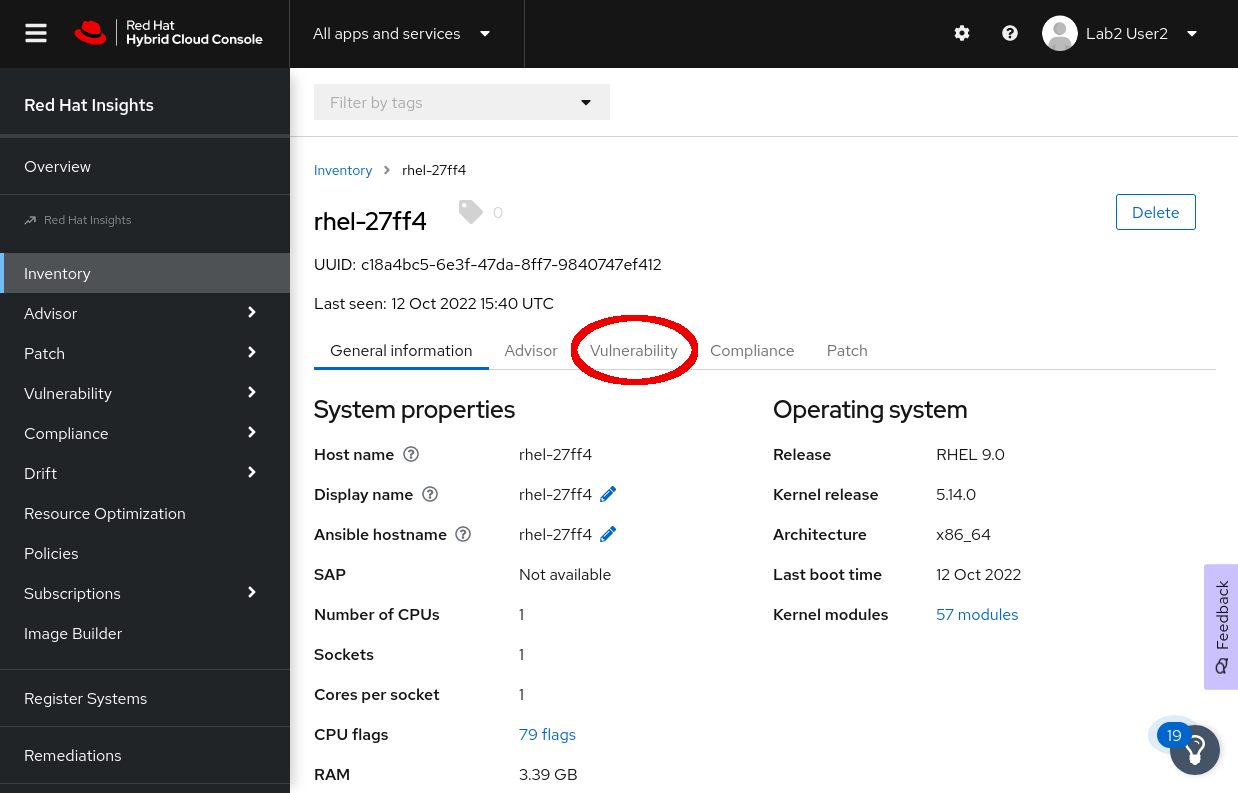
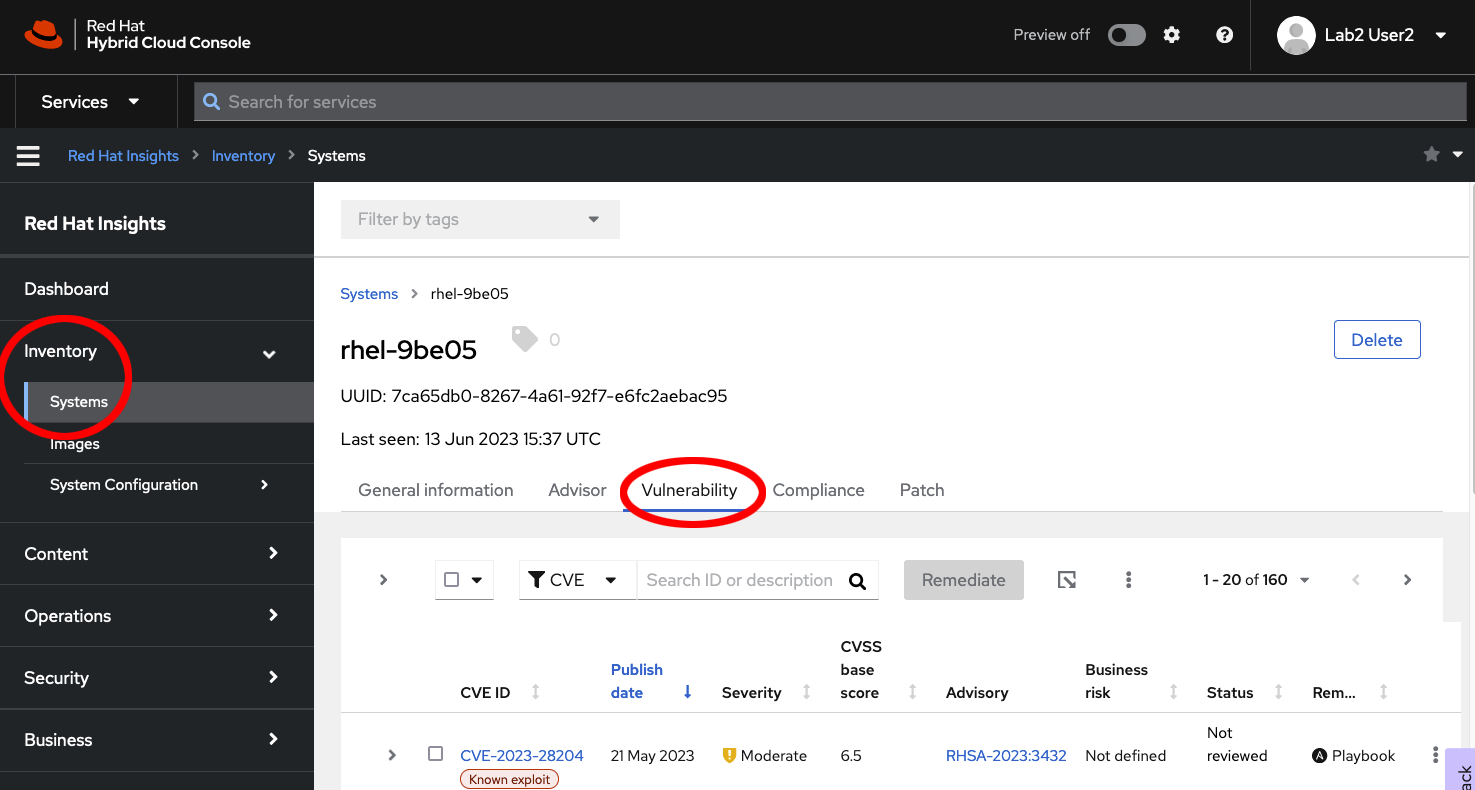
several changes accomodating insights new UI, and a bug.

diff --git a/insights-vulnerability/02-login-to-insights/assignment.md b/insights-vulnerability/02-login-to-insights/assignment.md
@@ -9,7 +9,7 @@ tabs:
   hostname: rhel
 - title: Red Hat Hybrid Cloud Console
   type: external
-  url: https://cloud.redhat.com
+  url: https://console.redhat.com
 difficulty: basic
 timelimit: 1
 ---
@@ -18,13 +18,7 @@ timelimit: 1
 
 There is a tab open inside of the lab environment for the Red Hat Hybrid Cloud Console, click on that, and you will be brought to the login page.
 
->_NOTE:_ This will open an additional browser window or tab.
-
-Click the _Log In to the console_ button.
-
-![cloud.redhat.com Login](../assets/cloud-console-homepage.png)
-
->_NOTE:_ If your browser already has a session for the Hybrid Cloud Console, you may need to open a new private window or tab in order to complete the following tasks
+>_NOTE:_ This will open an additional browser window or tab. Also note: If your browser already has a session for the Hybrid Cloud Console, you may need to open a new private window or tab in order to complete the following tasks
 
 Login using the credentials below:
 
@@ -44,7 +38,7 @@ Redhat1!
 
 ![Red Hat Password screen](../assets/cloud-console-login-pass.png)
 
-Once you are logged in, using the credentials provided above, navigate to
-_Red Hat Enterprise Linux_ in the left-side navigation menu, and select _Red Hat Insights_ below it.
+Once you are logged in, using the credentials provided above, use the _Services_ drop-down menu to navigate to *Services -> Security -> CVEs (Under the RHEL heading)
 
-![cloud.redhat.com Homepage](../assets/cloud-console-RHEL-menu.png)
+![Hybrid Cloud Console CVEs](../assets/cloud-console-cves-menu.png)
+

diff --git a/insights-vulnerability/04-remediate-manually/assignment.md b/insights-vulnerability/04-remediate-manually/assignment.md
@@ -9,11 +9,11 @@ tabs:
   hostname: rhel
 - title: Red Hat Hybrid Cloud Console
   type: external
-  url: https://cloud.redhat.com
+  url: https://console.redhat.com
 difficulty: basic
 timelimit: 1
 ---
-After providing the report generated in the previous step to your auditors, they have asked you to find, and fix any vulnerability classified as Important or Critical.  For the purposes of this lab, we will perform these tasks on just our lab host.  To find CVEs on our host that match this criteria, browse to Inventory on the menu to the left, and find the host that matches the hostname you recorded in Step 1. Click on it, and then select the Vulnerabilty heading within the host information pane.
+After providing the report generated in the previous step to your auditors, they have asked you to find, and fix any vulnerability classified as Important or Critical.  For the purposes of this lab, we will perform these tasks on just our lab host.  To find CVEs on our host that match this criteria, browse to *Inventory -> Systems* on the menu to the left, and find the host that matches the hostname you recorded in Step 1. Click on it, and then select the Vulnerabilty heading within the host information pane.
 
 ![Host Vulnerability](../assets/cloud-console-RHEL-host-vuln.png)
 

diff --git a/insights-vulnerability/03-vulnerability-reports/assignment.md b/insights-vulnerability/03-vulnerability-reports/assignment.md
@@ -9,16 +9,15 @@ tabs:
   hostname: rhel
 - title: Red Hat Hybrid Cloud Console
   type: external
-  url: https://cloud.redhat.com
+  url: https://console.redhat.com
 difficulty: basic
 timelimit: 1
 ---
-Now that you have opened Red Hat Insights for Red Hat Enterprise Linux, you
-will see a summary dashboard of all systems registered to your organization.
+Now that you have opened Red Hat Insights Vulnerability, you will see a summary dashboard of CVEs impacting all of the systems registered to your organization.
 
-![Insights Homepage](../assets/cloud-console-RHEL-Dashboard.png)
+![Red Hat Insights Vulnerabilty Summary](../assets/cloud-console-cves-summary.png)
 
-For this exercise we are going to generate a report that tells us where our fleet of systems sits in regards to un-remedieated vulnerabilities.  From the Insights dashboard, you should navigate to Vulnerability -> Reports on the left-hand side menu.
+For this exercise we are going to generate a report that tells us where our fleet of systems sits in regards to un-remedieated vulnerabilities.  From the CVEs list, you should navigate to Vulnerability -> Reports on the left-hand side menu.
 
 ![Navigate to Vulnerability Reports](../assets/cloud-console-RHEL-vuln-reports.png)
 

diff --git a/insights-vulnerability/01-gather-information/assignment.md b/insights-vulnerability/01-gather-information/assignment.md
@@ -7,11 +7,11 @@ notes:
 - type: text
   contents: |
     After completing this scenario, users will be able to identify vulnerabilities that
-    affect systems registered to Red Hat Insights using the Vulnerability tool. They will also
-    learn how to remdediate these vulnerabilities.
+    affect systems registered to Red Hat Insights using the Red Hat Insights Vulnerability tool. 
+    They will also learn how to remdediate these vulnerabilities.
 
     # Concepts included in this scenario:
-    * View Insights Vulnerability results that are reported for the system on cloud.redhat.com.
+    * View Red Hat Insights Vulnerability results that are reported for the system on console.redhat.com.
     * Apply a recommeded remediation for the system.
     * Validate that the remediation was successful.
 
@@ -20,7 +20,7 @@ notes:
     a report showing what CVEs may impact your fleet for auditing purposes.
 
     Systems are impacted by a new vulnerability which a remediation exists for.
-    Asministrators would like to apply specific fixes to their systems without the
+    Administrators would like to apply specific fixes to their systems without the
     need for broader system updates.
 tabs:
 - title: Terminal

diff --git a/insights-vulnerability/05-verify-remediation/assignment.md b/insights-vulnerability/05-verify-remediation/assignment.md
@@ -9,7 +9,7 @@ tabs:
   hostname: rhel
 - title: Red Hat Hybrid Cloud Console
   type: external
-  url: https://cloud.redhat.com
+  url: https://console.redhat.com
 difficulty: basic
 timelimit: 1
 ---

diff --git a/insights-vulnerability/06-regnerate-report/assignment.md b/insights-vulnerability/06-regnerate-report/assignment.md
@@ -9,7 +9,7 @@ tabs:
   hostname: rhel
 - title: Red Hat Hybrid Cloud Console
   type: external
-  url: https://cloud.redhat.com
+  url: https://console.redhat.com
 difficulty: basic
 timelimit: 1
 ---
